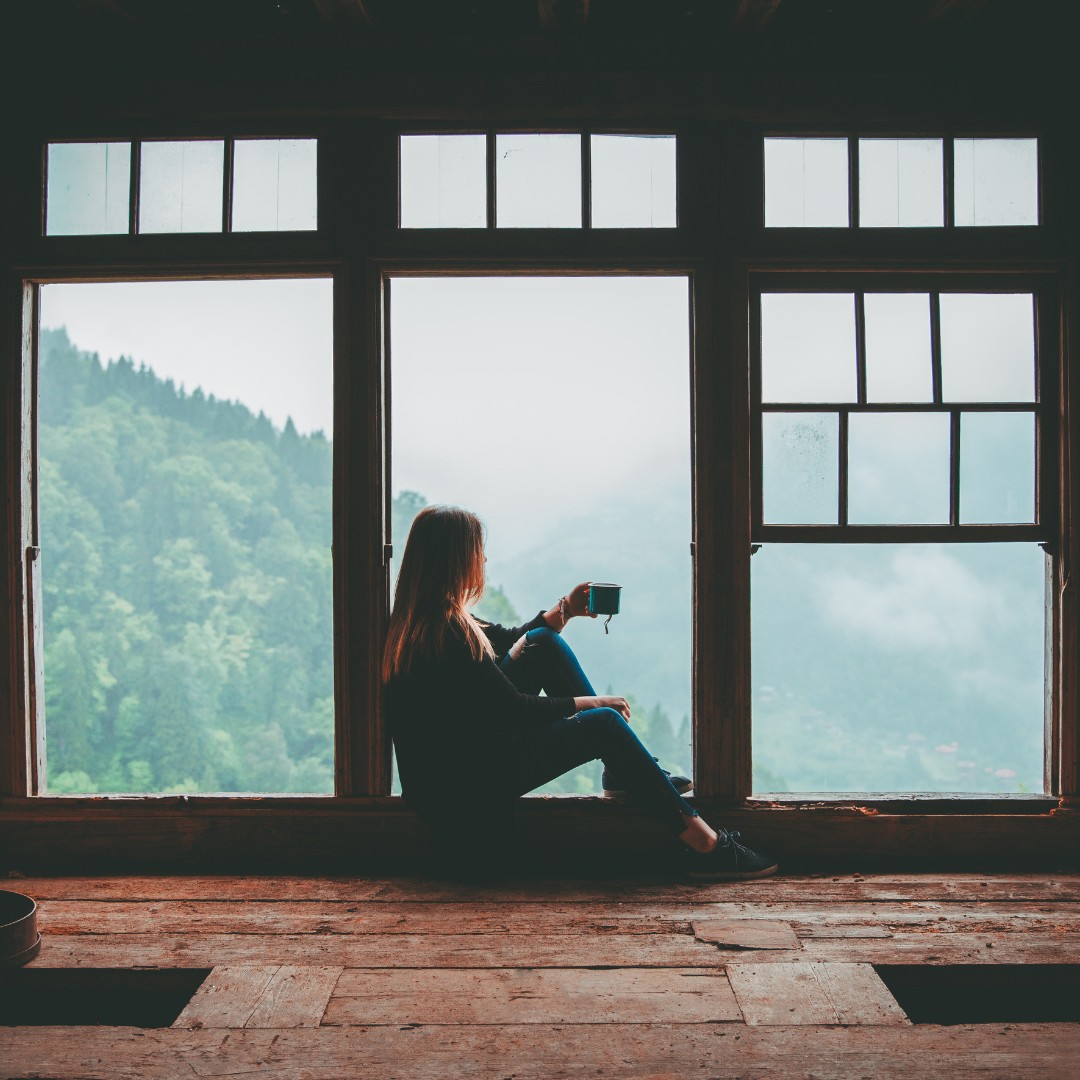
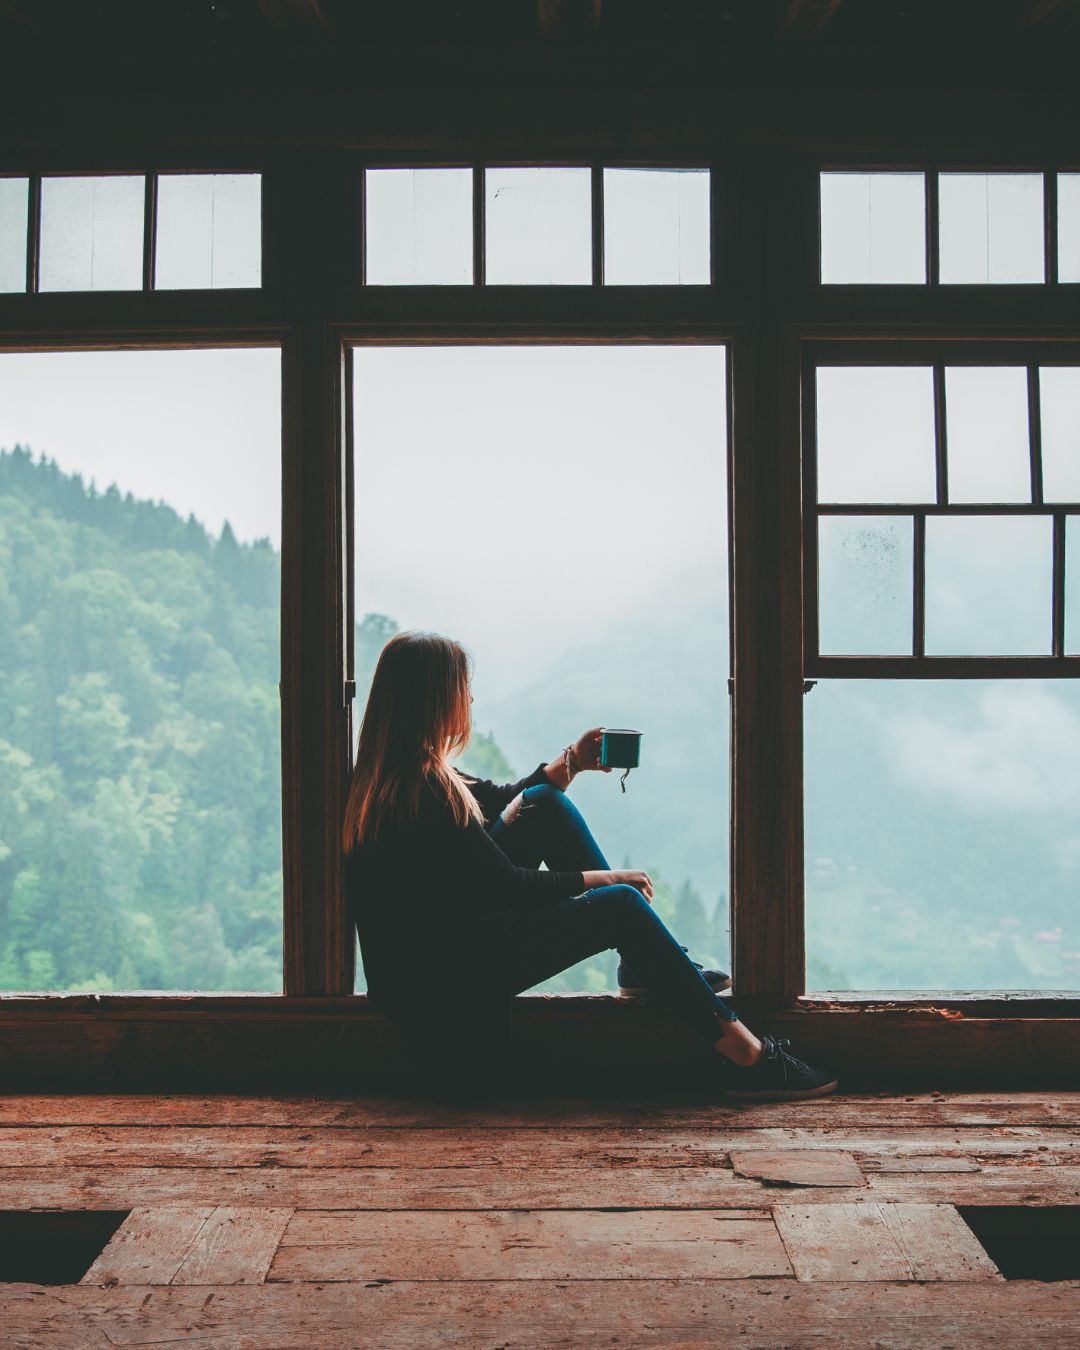
retreat styling v2

diff --git a/app/experiences/reset/page.tsx b/app/experiences/reset/page.tsx
@@ -178,9 +178,9 @@ export default function ResetRetreatPage() {
 
       {/* How We Deliver the ROOTED Reset Section */}
       <section id="how-we-deliver" className="bg-white py-10 border-t border-slate-100">
-        <div className="container mx-auto px-6 max-w-6xl flex flex-col-reverse lg:flex-row items-center gap-10">
+        <div className="container mx-auto px-6 max-w-6xl flex flex-col-reverse lg:flex-row items-start gap-10">
           {/* Left: Steps */}
-          <div className="w-full lg:w-1/2 space-y-10">
+          <div className="w-full lg:w-7/12 space-y-10">
             <h3 className="text-3xl md:text-4xl font-light text-[#4A4A4A] mb-6">A Transformative Experience</h3>
 
             <div className="space-y-8">
@@ -189,11 +189,12 @@ export default function ResetRetreatPage() {
                   01
                 </div>
                 <div>
-                  <h3 className="text-lg font-semibold text-[#4A4A4A] mb-1">Establishing a Baseline</h3>
+                  <h3 className="text-lg font-semibold text-[#4A4A4A] mb-1">Establish Your Baseline</h3>
+                  <p className="text-sm text-[#4A4A4A]/80 mb-1">Get clear on where you are, so you can reset with precision.</p>
                   <ul className="list-disc list-inside text-[#4A4A4A]/80 text-sm space-y-1">
-                    <li>Biomarker review – hormonal and metabolic panels</li>
-                    <li>Movement assessment</li>
-                    <li>Individual goal setting with coaches</li>
+                    <li>Comprehensive biomarker review (hormonal & metabolic panels)</li>
+                    <li>Functional movement assessment and personalized sleep evaluation</li>
+                    <li>Individual goal setting with expert practitioners and dedicated coaches</li>
                   </ul>
                 </div>
               </div>
@@ -204,10 +205,11 @@ export default function ResetRetreatPage() {
                 </div>
                 <div>
                   <h3 className="text-lg font-semibold text-[#4A4A4A] mb-1">Grounding in Your Body</h3>
+                  <p className="text-sm text-[#4A4A4A]/80 mb-1">Reconnect to your physical foundation for energy and presence.</p>
                   <ul className="list-disc list-inside text-[#4A4A4A]/80 text-sm space-y-1">
-                    <li>Mobility exercises and mindful movement</li>
-                    <li>Individualized strength training</li>
-                    <li>Meditation and breathwork</li>
+                    <li>Daily mobility and mindful movement practices</li>
+                    <li>Personalized training protocols</li>
+                    <li>Guided meditation and nervous system-focused breathwork</li>
                   </ul>
                 </div>
               </div>
@@ -218,13 +220,30 @@ export default function ResetRetreatPage() {
                 </div>
                 <div>
                   <h3 className="text-lg font-semibold text-[#4A4A4A] mb-1">Reflecting on Your Purpose</h3>
+                  <p className="text-sm text-[#4A4A4A]/80 mb-1">Clarify your story and reclaim what matters most.</p>
                   <ul className="list-disc list-inside text-[#4A4A4A]/80 text-sm space-y-1">
-                    <li>Understanding your unique story</li>
-                    <li>Reviewing components of your identity</li>
-                    <li>Writing your next chapter</li>
+                    <li>Explore the personal narrative that has shaped who you are</li>
+                    <li>Identify the values and patterns that define your unique identity</li>
+                    <li>Begin writing the next chapter with intention and clarity</li>
                   </ul>
                 </div>
               </div>
+
+              <div className="flex items-start gap-5">
+                <div className="w-10 h-10 rounded-full bg-black text-white flex items-center justify-center text-sm font-mono">
+                  04
+                </div>
+                <div>
+                  <h3 className="text-lg font-semibold text-[#4A4A4A] mb-1">Create Lasting Change</h3>
+                  <p className="text-sm text-[#4A4A4A]/80 mb-1">Leave with a new operating system, not just fleeting inspiration.</p>
+                  <ul className="list-disc list-inside text-[#4A4A4A]/80 text-sm space-y-1">
+                    <li>Detox with nourishing, anti-inflammatory meals</li>
+                    <li>Reboot your metabolism through intentional, sustainable practices that restore your relationship with food</li>
+                    <li>Build a personalized post-retreat integration plan with accountability and support</li>
+                  </ul>
+                </div>
+              </div>
+
             </div>
 
             <div className="mt-10 text-center lg:text-left animate-bounce text-[#4A4A4A]/60 text-xs tracking-tight">
@@ -233,8 +252,8 @@ export default function ResetRetreatPage() {
           </div>
 
           {/* Right: Visual */}
-          <div className="w-full lg:w-1/2">
-            <div className="aspect-[4/3] w-full rounded-lg overflow-hidden shadow-xl">
+          <div className="w-full lg:w-5/12">
+            <div className="aspect-[3/4] w-full rounded-lg overflow-hidden shadow-xl">
               <Image
                 src="/events/retreat_how.jpg"
                 alt="Retreat participants grounding in nature"
@@ -270,21 +289,11 @@ export default function ResetRetreatPage() {
             <div className="container mx-auto px-6">
               <div className="max-w-xl">
                 <h2 className="text-3xl md:text-4xl font-light text-white mb-6">Fall Is for Shedding</h2>
-                <p className="text-lg text-white/90 mb-8">As the leaves fall, nature teaches us the beauty of release. This is your season to slow down, clear the fog, and come back to yourself.</p>
-                <div className="space-y-4">
-                  <p className="flex items-center gap-3 text-white/80">
-                    <span className="w-2 h-2 bg-[#D4AF37] rounded-full flex-shrink-0"></span>
-                    <span>Medical-grade bloodwork + biomarker testing</span>
-                  </p>
-                  <p className="flex items-center gap-3 text-white/80">
-                    <span className="w-2 h-2 bg-[#D4AF37] rounded-full flex-shrink-0"></span>
-                    <span>1:1 sleep and movement assessments</span>
-                  </p>
-                  <p className="flex items-center gap-3 text-white/80">
-                    <span className="w-2 h-2 bg-[#D4AF37] rounded-full flex-shrink-0"></span>
-                    <span>Anti-inflammatory, gut-healing nutrition</span>
-                  </p>
-                </div>
+                
+                <p className="text-lg text-white/90 mb-8"><span className="w-2 h-2 bg-[#D4AF37] rounded-full flex-shrink-0"></span>Your calendar is full, your inbox overflows, but you feel like you’re running on half a battery.</p>
+                <p className="text-lg text-white/90 mb-8"><span className="w-2 h-2 bg-[#D4AF37] rounded-full flex-shrink-0"></span>You’re not alone. Most high-functioning adults in their late 30s, 40s, and 50s feel the same: stretched thin, foggy, disconnected from themselves and their health. This retreat is your pause. A reset grounded in nature, guided by science, and built for real life.</p>
+                <p className="text-lg text-white/90 mb-8"><span className="w-2 h-2 bg-[#D4AF37] rounded-full flex-shrink-0"></span>You will release what’s no longer serving you, by spending time in nature through mountain hikes, ocean plunges, and quiet reflection in the wild — this is not just for rest, but reconnection. </p>
+
               </div>
             </div>
           </div>
@@ -299,19 +308,19 @@ export default function ResetRetreatPage() {
               <div className="lg:col-span-5 lg:col-start-1">
                 <div className="sticky top-20">
                   <h2 className="text-3xl md:text-4xl font-light text-[#4A4A4A] mb-6">What You Can Expect</h2>
-                  <p className="text-lg text-[#4A4A4A]/80 mb-8">The ROOTED Fall Reset isn't a trendy escape. It's a scientifically grounded recalibration for your nervous system, metabolism, and mindset.</p>
+                  <p className="text-lg text-[#4A4A4A]/80 mb-8">This is a highly customized 6-day reset designed for high performers that are seeking to reclaim their energy, health, and mental edge with science, structure, and support.</p>
                   <div className="space-y-4">
                     <p className="flex items-start gap-3">
                       <span className="w-2 h-2 bg-[#D4AF37] rounded-full mt-2"></span>
-                      <span>Breathwork & nervous system mastery</span>
+                      <span>Post-retreat integration plan</span>
                     </p>
                     <p className="flex items-start gap-3">
                       <span className="w-2 h-2 bg-[#D4AF37] rounded-full mt-2"></span>
-                      <span>Nature immersion with hikes and ocean plunges</span>
+                      <span>A like-minded community of professionals who get it</span>
                     </p>
                     <p className="flex items-start gap-3">
                       <span className="w-2 h-2 bg-[#D4AF37] rounded-full mt-2"></span>
-                      <span>Personalized 90-day roadmap</span>
+                      <span>Dedicated coach to support you after you return home from the retreat</span>
                     </p>
                   </div>
                 </div>
@@ -338,7 +347,7 @@ export default function ResetRetreatPage() {
           <div className="max-w-6xl mx-auto">
             <div className="grid grid-cols-1 lg:grid-cols-12 gap-12 items-center">
               <div className="lg:col-span-7 lg:col-start-1 relative">
-                <div className="aspect-[16/9] relative rounded-xl overflow-hidden">
+                <div className="aspect-[16/9] relative rounded-xl overflow-hidden border-2 border-gray-500">
                   <Image
                     src="/events/retreat_5.jpg"
                     alt="Target audience visualization"
@@ -346,7 +355,7 @@ export default function ResetRetreatPage() {
                     style={{ objectFit: "cover" }}
                   />
                 </div>
-                <div className="absolute -bottom-12 -right-12 w-2/3 aspect-square rounded-xl overflow-hidden border-8 border-white shadow-xl hidden lg:block">
+                <div className="absolute -bottom-12 -right-12 w-2/3 aspect-square rounded-xl overflow-hidden border-2 border-gray-500 shadow-xl hidden lg:block">
                   <Image
                     src="/events/retreat_6.png"
                     alt="Additional retreat imagery"
